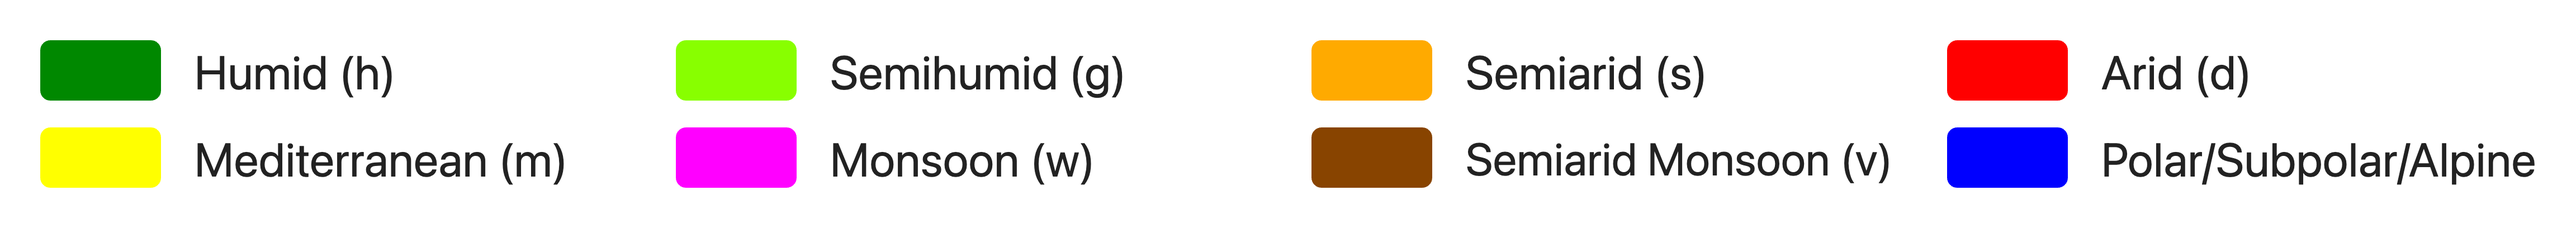
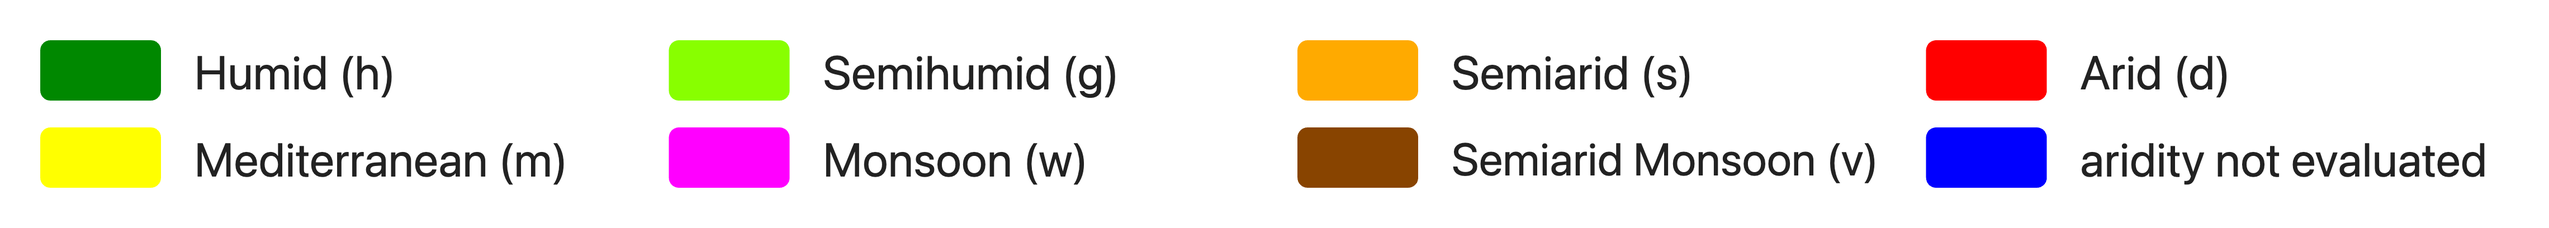
latex paper update

diff --git a/ScientificMapMakers/LegendHTML/LegendAridity.html b/ScientificMapMakers/LegendHTML/LegendAridity.html
@@ -62,6 +62,7 @@
       { label: "Mediterranean (m)",     color: "#FFFF00" },
       { label: "Monsoon (w)",           color: "#FF00FF" },
       { label: "Semiarid Monsoon (v)",  color: "#884400" },
+      // In LaTeX paper; "aridity not evaluated" instead of "Polar/Subpolar/Alpine"
       { label: "Polar/Subpolar/Alpine", color: "#0000FF" }
     ];
 

diff --git a/LaTeX/Paper.tex b/LaTeX/Paper.tex
@@ -59,7 +59,7 @@ definitions. This manuscript is released as a preprint to establish a persistent
 \section*{Data and Implementation Notes}
 
 All illustrative maps were generated using Google Earth Engine
-from CHELSA BIOCLIM+ v2.1 1981-2010 climatological normals (Karger et al., 2017; Brun et al., 2022). No new climate model simulations were performed for this work.
+from CHELSA BIOCLIM+ v2.1 1981--2010 climatological normals (Karger et al., 2017; Brun et al., 2022). No new climate model simulations were performed for this work.
 The classification logic is deterministic and reproducible.
 
 \section*{Introduction}
@@ -109,11 +109,9 @@ Millimeter-based precipitation thresholds do not represent equivalent hydrologic
 
 The Dickinson classification is intended as a partition of continuous
 climate space rather than as a definition of habitability limits. It does
-not attempt to identify the absolute bounds of life. Consequently,
-climates or microclimates that differ substantially in biological
-extremity—such as hypothetical thermophile-dominated regimes with
-$T_{\max,\text{mean}} = 55^\circ\text{C}$ versus $80^\circ\text{C}$—may be
-assigned to the same category if they occupy the same region of climate space as defined in this taxonomy. This design choice preserves classification
+not attempt to identify the absolute bounds of life. Consequently, hypothetical thermophile-dominated regimes with
+$T_{\max,\mathrm{mean}} = 55^\circ\mathrm{C}$ versus $80^\circ\mathrm{C}$, for example, may be
+assigned to the same category. This design choice preserves classification
 stability across paleoclimatic variability, evolutionary adaptation, and
 extreme future warming scenarios, without requiring revision in response
 to newly discovered extremophiles or altered biological tolerances.
@@ -187,28 +185,28 @@ By contrast, the warm-month thermal axis is partitioned at higher resolution, us
 This asymmetric treatment follows long-standing precedent in climate classification. In the Köppen system, for example, the temperature spacing between winter-regime isotherms is substantially broader than that separating summer heat regimes (Köppen, 1884). The combined use of uniform 10~$^\circ$C cold-month bins and finer warm-month subdivisions therefore produces a transparent, scale-consistent partition of climate space that remains robust across paleoclimates, projected future warming scenarios, and hypothetical climate states.
 
 Cold-month thermal zones are assigned using the climatological
-coldest-month mean temperature ($T_{\min,\text{mean}}$), which provides a measure of winter thermal constraint that is insensitive to short-
+coldest-month mean temperature ($T_{\min,\mathrm{mean}}$), which provides a measure of winter thermal constraint that is insensitive to short-
 duration extremes. The resulting cold-month thermal zones span the full
 range of physically plausible climates, from extreme cold environments to
 hypothetical hyperthermal regimes that may occur under deep-time or future
 boundary conditions.
 
-Based on $T_{\min,\text{mean}}$, climates are assigned to one of the
+Based on $T_{\min,\mathrm{mean}}$, climates are assigned to one of the
 following cold-month thermal zones:
 \[
 \begin{array}{ll}
 \text{Hypercaneal (H)}        &
 50^\circ\mathrm{C} \le T_{\min,\mathrm{mean}}
 \le T_{\min}^{\mathrm{life,high}} \\
-\text{Uninhabitable (X)}      & 40 \le T_{\min,\text{mean}} < 50^\circ\text{C} \\
-\text{Hyperequatorial (Z)}    & 30 \le T_{\min,\text{mean}} < 40^\circ\text{C} \\
-\text{Equatorial (A)}         & 20 \le T_{\min,\text{mean}} < 30^\circ\text{C} \\
-\text{Tropical (B)}           & 10 \le T_{\min,\text{mean}} < 20^\circ\text{C} \\
-\text{Subtropical (C)}        & 0 \le T_{\min,\text{mean}} < 10^\circ\text{C} \\
-\text{Temperate (D)}          & -10 \le T_{\min,\text{mean}} < 0^\circ\text{C} \\
-\text{Continental (E)}        & -20 \le T_{\min,\text{mean}} < -10^\circ\text{C} \\
-\text{Subarctic (F)}          & -30 \le T_{\min,\text{mean}} < -20^\circ\text{C} \\
-\text{Arctic (G)}             & -40 \le T_{\min,\text{mean}} < -30^\circ\text{C} \\
+\text{Uninhabitable (X)}      & 40 \le T_{\min,\mathrm{mean}} < 50^\circ\mathrm{C} \\
+\text{Hyperequatorial (Z)}    & 30 \le T_{\min,\mathrm{mean}} < 40^\circ\mathrm{C} \\
+\text{Equatorial (A)}         & 20 \le T_{\min,\mathrm{mean}} < 30^\circ\mathrm{C} \\
+\text{Tropical (B)}           & 10 \le T_{\min,\mathrm{mean}} < 20^\circ\mathrm{C} \\
+\text{Subtropical (C)}        & 0 \le T_{\min,\mathrm{mean}} < 10^\circ\mathrm{C} \\
+\text{Temperate (D)}          & -10 \le T_{\min,\mathrm{mean}} < 0^\circ\mathrm{C} \\
+\text{Continental (E)}        & -20 \le T_{\min,\mathrm{mean}} < -10^\circ\mathrm{C} \\
+\text{Subarctic (F)}          & -30 \le T_{\min,\mathrm{mean}} < -20^\circ\mathrm{C} \\
+\text{Arctic (G)}             & -40 \le T_{\min,\mathrm{mean}} < -30^\circ\mathrm{C} \\
 \text{Superarctic (Y)}        &
 T_{\min}^{\mathrm{life,low}}
 \le T_{\min,\mathrm{mean}} < -40^\circ\mathrm{C}
@@ -250,7 +248,7 @@ classification. Accordingly, classification as hypercaneal does not imply the ex
 Global distribution of cold-month thermal zones under the
 Dickinson Climate Classification, based on 1981--2010 climatological normals.
 Data were processed and plotted in Google Earth Engine (GEE) using
-CHELSA BIOCLIM+ v2.1 1981-2010 temperature fields (Karger et al., 2017; Brun et al., 2022).
+CHELSA BIOCLIM+ v2.1 1981--2010 temperature fields (Karger et al., 2017; Brun et al., 2022).
 }
 \label{fig:cold_month_legend}
 \end{figure}
@@ -263,11 +261,11 @@ CHELSA BIOCLIM+ v2.1 1981-2010 temperature fields (Karger et al., 2017; Brun et 
 In addition to cold-season thermal constraints, the Dickinson
 classification characterizes the intensity of the warm season using the
 climatological warmest-month mean near-surface air temperature
-($T_{\max,\text{mean}}$). This metric provides a measure of summer
+($T_{\max,\mathrm{mean}}$). This metric provides a measure of summer
 thermal conditions that reflects seasonal energy balance rather than
 short-lived extreme events.
 
-Warm-month thermal zones are assigned based on $T_{\max,\text{mean}}$ and
+Warm-month thermal zones are assigned based on $T_{\max,\mathrm{mean}}$ and
 are intended to distinguish climates with similar winter conditions but
 substantially different summer heat regimes. The resulting categories span
 the full range of plausible summer thermal environments, from persistently
@@ -281,15 +279,15 @@ of the following warm-month thermal zones:
 \text{Hypercaneal Summer (H)} &
 50^\circ\mathrm{C} \le T_{\max,\mathrm{mean}}
 \le T_{\max}^{\mathrm{life,high}} \\
-\text{Hyperthermal Summer (X)}     & 40 \le T_{\max,\text{mean}} < 50^\circ\text{C} \\
-\text{Scorching Summer (z2)}       & 35 \le T_{\max,\text{mean}} < 40^\circ\text{C} \\
-\text{Very Hot Summer (z1)}        & 30 \le T_{\max,\text{mean}} < 35^\circ\text{C} \\
-\text{Hot Summer (a2)}             & 25 \le T_{\max,\text{mean}} < 30^\circ\text{C} \\
-\text{Warm Summer (a1)}            & 20 \le T_{\max,\text{mean}} < 25^\circ\text{C} \\
-\text{Cool Summer (b2)}            & 15 \le T_{\max,\text{mean}} < 20^\circ\text{C} \\
-\text{Cold Summer (b1)}            & 10 \le T_{\max,\text{mean}} < 15^\circ\text{C} \\
-\text{Very Cold Summer (c2)}       & 5 \le T_{\max,\text{mean}} < 10^\circ\text{C} \\
-\text{Freezing Summer (c1)}        & 0 \le T_{\max,\text{mean}} < 5^\circ\text{C} \\
+\text{Hyperthermal Summer (X)}     & 40 \le T_{\max,\mathrm{mean}} < 50^\circ\mathrm{C} \\
+\text{Scorching Summer (z2)}       & 35 \le T_{\max,\mathrm{mean}} < 40^\circ\mathrm{C} \\
+\text{Very Hot Summer (z1)}        & 30 \le T_{\max,\mathrm{mean}} < 35^\circ\mathrm{C} \\
+\text{Hot Summer (a2)}             & 25 \le T_{\max,\mathrm{mean}} < 30^\circ\mathrm{C} \\
+\text{Warm Summer (a1)}            & 20 \le T_{\max,\mathrm{mean}} < 25^\circ\mathrm{C} \\
+\text{Cool Summer (b2)}            & 15 \le T_{\max,\mathrm{mean}} < 20^\circ\mathrm{C} \\
+\text{Cold Summer (b1)}            & 10 \le T_{\max,\mathrm{mean}} < 15^\circ\mathrm{C} \\
+\text{Very Cold Summer (c2)}       & 5 \le T_{\max,\mathrm{mean}} < 10^\circ\mathrm{C} \\
+\text{Freezing Summer (c1)}        & 0 \le T_{\max,\mathrm{mean}} < 5^\circ\mathrm{C} \\
 \text{Frigid Summer (Y)} &
 T_{\max}^{\mathrm{life,low}}
 \le T_{\max,\mathrm{mean}} < 0^\circ\mathrm{C}
@@ -318,7 +316,7 @@ limits or human comfort thresholds.
 Global distribution of warm-month thermal zones under the
 Dickinson Climate Classification, based on 1981--2010 climatological normals.
 Data were processed and plotted in Google Earth Engine (GEE) using
-CHELSA BIOCLIM+ v2.1 1981-2010 temperature fields (Karger et al., 2017; Brun et al., 2022).
+CHELSA BIOCLIM+ v2.1 1981--2010 temperature fields (Karger et al., 2017; Brun et al., 2022).
 }
 \label{fig:warm_month_legend}
 \end{figure}
@@ -334,12 +332,19 @@ Previous climate classification frameworks have implicitly recognized that aridi
 Moisture regime classification in the Dickinson system is applied only to
 climates in which aridity meaningfully structures surface–atmosphere
 interactions. Specifically, aridity diagnostics are evaluated only at
-locations where the climatological warmest-month mean temperature is at
-least $15^\circ$C and the climatological coldest-month mean temperature is
-at least $-30^\circ$C. Together, these warm- and cold-month constraints define a conservative thermal envelope within which aridity diagnostics exert first-order influence on climate differentiation. Outside this envelope, climates are classified exclusively on thermal grounds.
+locations where the warmest-month mean temperature
+($T_{\max,\mathrm{mean}}$) is at least $15^\circ\mathrm{C}$ and the
+coldest-month mean temperature ($T_{\min,\mathrm{mean}}$) is at
+least $-30^\circ\mathrm{C}$. Together, these constraints define a conservative thermal envelope within which aridity diagnostics exert first-order influence on climate differentiation. Outside this envelope, climates are classified exclusively on thermal grounds.
+Consequently, polar, subarctic, alpine, and other climates, such as cold-summer oceanic regimes analogous to
+K\"oppen's subpolar oceanic climates, receive no aridity
+classification within the Dickinson framework.
 
 At locations that do not satisfy these thermal screening criteria, no
 aridity regime is assigned and the moisture classification is not evaluated within the Dickinson framework.
+Within this cold thermal regime, aridity diagnostics are not evaluated
+over either land or ocean. Outside the regime, aridity classification is
+applied only to terrestrial climates.
 
 For climates meeting the aridity relevance criteria, moisture regimes are
 defined using the annual aridity index
@@ -378,9 +383,6 @@ repartitioned to produce evenly spaced, analytically comparable moisture
 regimes. This design choice emphasizes thermodynamic consistency and
 stability across paleoclimates and future warming scenarios rather than
 land-degradation or development-focused classification objectives.
-
-\paragraph{Note.}
-Aridity classifications are defined only for terrestrial climates and are not evaluated over the open ocean. Temperature-based classifications, by contrast, are defined globally.
 
 % ============================================================
 \section{Seasonality Diagnostics and Aridity Overrides}
@@ -462,13 +464,11 @@ minimum monthly precipitation of at least 50\% of mean monthly PET.
 % =====================================================
 
 \node[decision] (relevance)
-{$T_{\max,\mathrm{mean}} \ge 15^\circ\mathrm{C}$\\
-$\text{ and }
-\ T_{\min,\mathrm{mean}} \ge -30^\circ\mathrm{C}$?};
+{$T_{\max,\mathrm{mean}} \ge 15\,^\circ\mathrm{C}$\\
+$\text{and } T_{\min,\mathrm{mean}} \ge -30\,^\circ\mathrm{C}$?}
 
 \node[outcome, left=of relevance] (polar)
-{Aridity not evaluated\\
-Polar / Subpolar / Alpine};
+{aridity not evaluated};
 
 \draw[arrow] (relevance) -- node[above,font=\small]{No} (polar);
 
@@ -513,7 +513,7 @@ Polar / Subpolar / Alpine};
 % =====================================================
 
 \node[decision, below=of medcheck] (monsooncheck)
-{$P6ratio \ge 0.8$?};
+{$P6_{ratio} \ge 0.8$?};
 
 \draw[arrow] (medcheck) -- node[left,font=\small]{No} (monsooncheck);
 
@@ -592,7 +592,7 @@ Mediterranean seasonality is evaluated only at such locations.
 Global distribution of aridity zones under the
 Dickinson Climate Classification, based on 1981--2010 climatological normals.
 Data were processed and plotted in Google Earth Engine (GEE) using
-CHELSA BIOCLIM+ v2.1 1981-2010 precipitation and Penman-Monteith PET fields (Allen et al., 1998; Karger et al., 2017; Brun et al., 2022).
+CHELSA BIOCLIM+ v2.1 1981--2010 precipitation and Penman-Monteith PET fields (Allen et al., 1998; Karger et al., 2017; Brun et al., 2022).
 }
 \label{fig:aridity_legend}
 \end{figure}
@@ -636,7 +636,7 @@ These examples are illustrative only and do not necessarily exist on Earth.
 % ============================================================
 \section*{Conclusion}
 
-The Dickinson Climate Classification provides a thermodynamic partition of climate space without imposing biological assumptions or temporal constraints. By formalizing aridity relevance, seasonality diagnostics, and exception handling, the system remains stable under extreme warming, deep-time climates, and hypothetical planetary environments.
+The Dickinson Climate Classification provides a thermodynamic partition of climate space without imposing biological assumptions or temporal constraints. By formalizing aridity relevance, seasonality diagnostics, and exception handling, the system remains stable under extreme warming, deep-time climates, and hypothetical planetary environments within the thermodynamic domain compatible with life.
 
 % ============================================================
 
